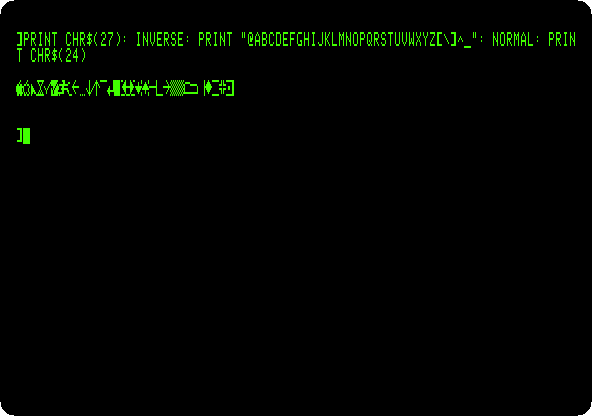
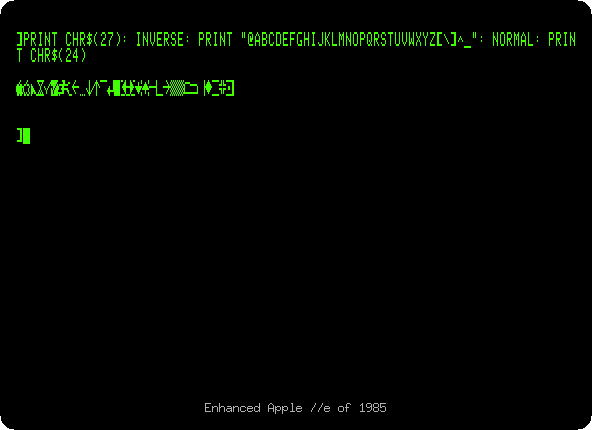
Show the two //e side by side, each picture saying which it is
As asked in the review, as in izmac's file sharing: the pictures of each
step in a row, the //e of 1983 on the left and the enhanced one on the
right, with the name of the machine under the screen. The manuals of the
Enhancement Kit and the Technical Reference are linked.

diff --git a/activities/iiemodels_test.go b/activities/iiemodels_test.go
@@ -33,10 +33,11 @@ func iieModelsScreenshots(t *testing.T) {
 	pictures := newAlbum("apple-iie-models", album.Green)
 	for _, model := range []struct {
 		name    string
+		label   string
 		command string
 	}{
-		{"original", iieOriginal},
-		{"enhanced", iieEnhanced},
+		{"original", "Apple //e of 1983", iieOriginal},
+		{"enhanced", "Enhanced Apple //e of 1985", iieEnhanced},
 	} {
 		o := start(t, model.command, nil)
 		must(t, o.WaitForText("Apple ", 10))
@@ -47,13 +48,13 @@ func iieModelsScreenshots(t *testing.T) {
 		must(t, o.TypeLines(`print "hello"`))
 		must(t, o.WaitForKeyboard(10))
 		o.Run(30)
-		must(t, pictures.Screenshot(o, model.name+"-lower"))
+		must(t, pictures.ScreenshotOf(o, model.name+"-lower", model.label))
 
 		// The inverse capitals, in 80 columns, with MouseText turned on
 		must(t, o.TypeLines("PR#3", mouseTextLine))
 		must(t, o.WaitForKeyboard(10))
 		o.Run(30)
-		must(t, pictures.Screenshot(o, model.name+"-mousetext"))
+		must(t, pictures.ScreenshotOf(o, model.name+"-mousetext", model.label))
 
 		// The Monitor, and ! for the Mini-Assembler
 		must(t, o.TypeLines("CALL -151", "!"))
@@ -62,7 +63,7 @@ func iieModelsScreenshots(t *testing.T) {
 			iieAssemble(t, o)
 		}
 		o.Run(30)
-		must(t, pictures.Screenshot(o, model.name+"-monitor"))
+		must(t, pictures.ScreenshotOf(o, model.name+"-monitor", model.label))
 	}
 }
 

diff --git a/guides/apple-iie-models.md b/guides/apple-iie-models.md
@@ -19,11 +19,19 @@ The Apple //e lived for ten years, in three models that look alike:
 
 This page does the same things on the first two, side by side: switches
 them on, gives Applesoft a command in small letters, prints the characters
-that became MouseText, and asks the Monitor for its Mini-Assembler.
+that became MouseText, and asks the Monitor for its Mini-Assembler. The
+pictures of the //e of 1983 are on the left, and say *Apple //e of 1983*
+under the screen; those of the enhanced one are on the right, and say
+*Enhanced Apple //e of 1985*.
 
 ## What you need
 
 Only izapple2: the ROMs of both come inside it.
+
+The manual of the
+[Apple IIe Enhancement Kit](https://archive.org/details/a2eekg), and the
+[Apple IIe Technical Reference Manual](https://archive.org/details/a2etrm) of
+1985, are on the Internet Archive.
 
 ## The machine
 
@@ -62,9 +70,10 @@ of the Platinum //e.
    in small letters. Then **quit izapple2, start it with the second
    command**, and type the same.
 
-   ![The //e of 1983](images/apple-iie-models/original-lower.png)
-
-   ![The enhanced //e](images/apple-iie-models/enhanced-lower.png)
+   <table><tr>
+   <td><img src="images/apple-iie-models/original-lower.png" alt="The //e of 1983"></td>
+   <td><img src="images/apple-iie-models/enhanced-lower.png" alt="The enhanced //e"></td>
+   </tr></table>
 
    The first says `Apple ][` when it starts, the second `Apple //e`: the
    way to tell them apart, as the manuals of the time said. The first does
@@ -83,9 +92,10 @@ of the Platinum //e.
    `CHR$(24)`, Control-X, ends it; between them the 32 characters from `@`
    to `_`, in inverse.
 
-   ![Inverse capitals on the //e of 1983](images/apple-iie-models/original-mousetext.png)
-
-   ![MouseText on the enhanced //e](images/apple-iie-models/enhanced-mousetext.png)
+   <table><tr>
+   <td><img src="images/apple-iie-models/original-mousetext.png" alt="Inverse capitals on the //e of 1983"></td>
+   <td><img src="images/apple-iie-models/enhanced-mousetext.png" alt="MouseText on the enhanced //e"></td>
+   </tr></table>
 
    On the first, inverse capitals. On the enhanced one, MouseText: an
    apple, a pointer, an hourglass, a check mark, arrows, the pieces of
@@ -107,9 +117,10 @@ of the Platinum //e.
    an empty line to leave it, and **`300G`** to run the program, which
    prints an `A`, as on [the Apple \]\[ of 1977](apple-ii.md).
 
-   ![The Monitor of the //e of 1983](images/apple-iie-models/original-monitor.png)
-
-   ![The Mini-Assembler of the enhanced //e](images/apple-iie-models/enhanced-monitor.png)
+   <table><tr>
+   <td><img src="images/apple-iie-models/original-monitor.png" alt="The Monitor of the //e of 1983"></td>
+   <td><img src="images/apple-iie-models/enhanced-monitor.png" alt="The Mini-Assembler of the enhanced //e"></td>
+   </tr></table>
 
    The Monitor of the //e of 1983 has no Mini-Assembler, and `!` does
    nothing. It was in the ROM of the first Apple \]\[, with Integer BASIC,
